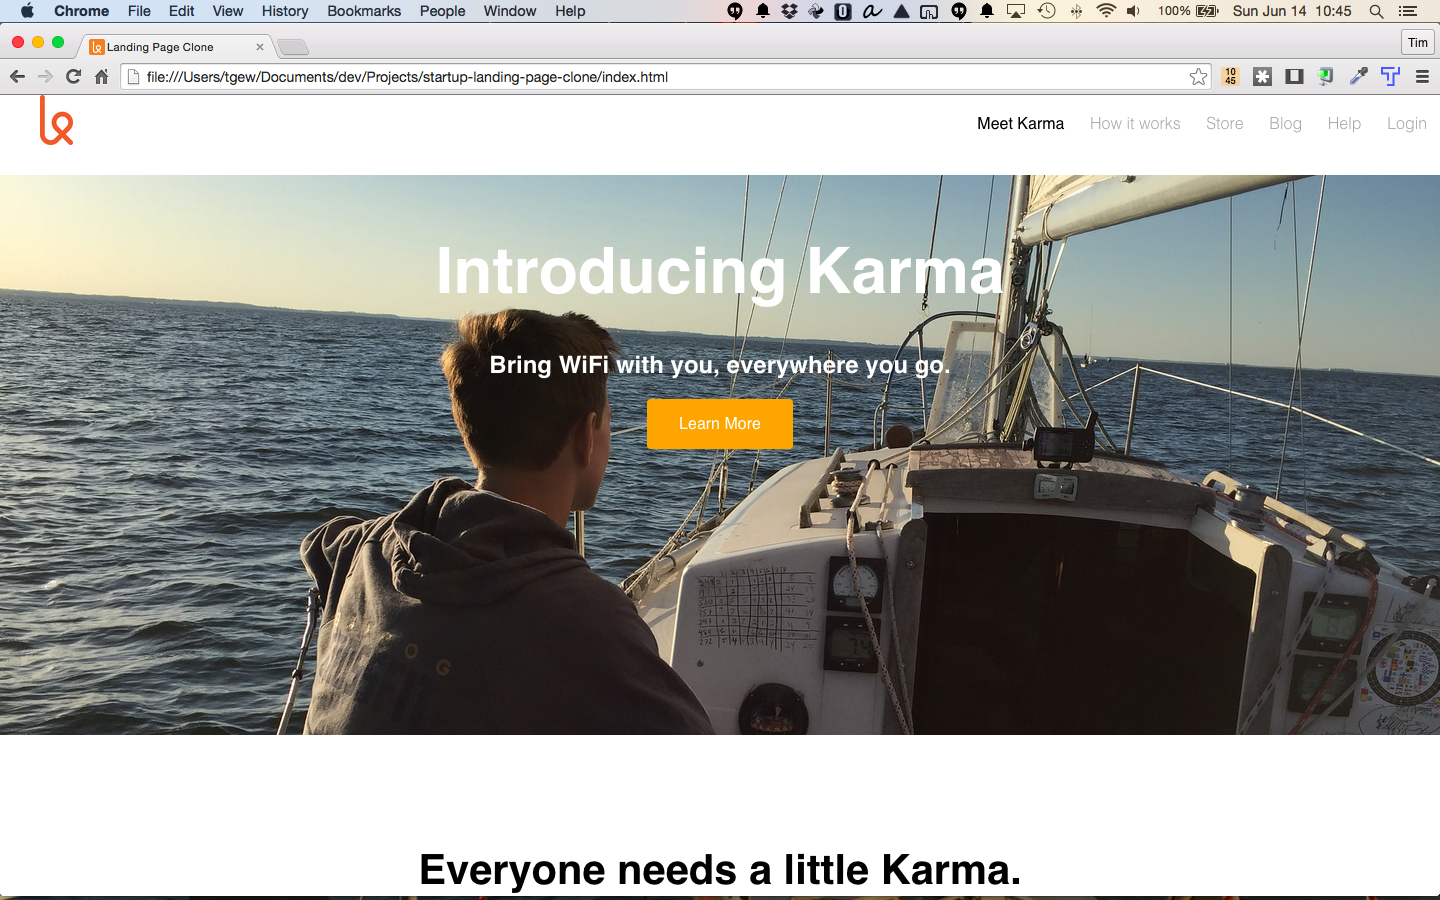
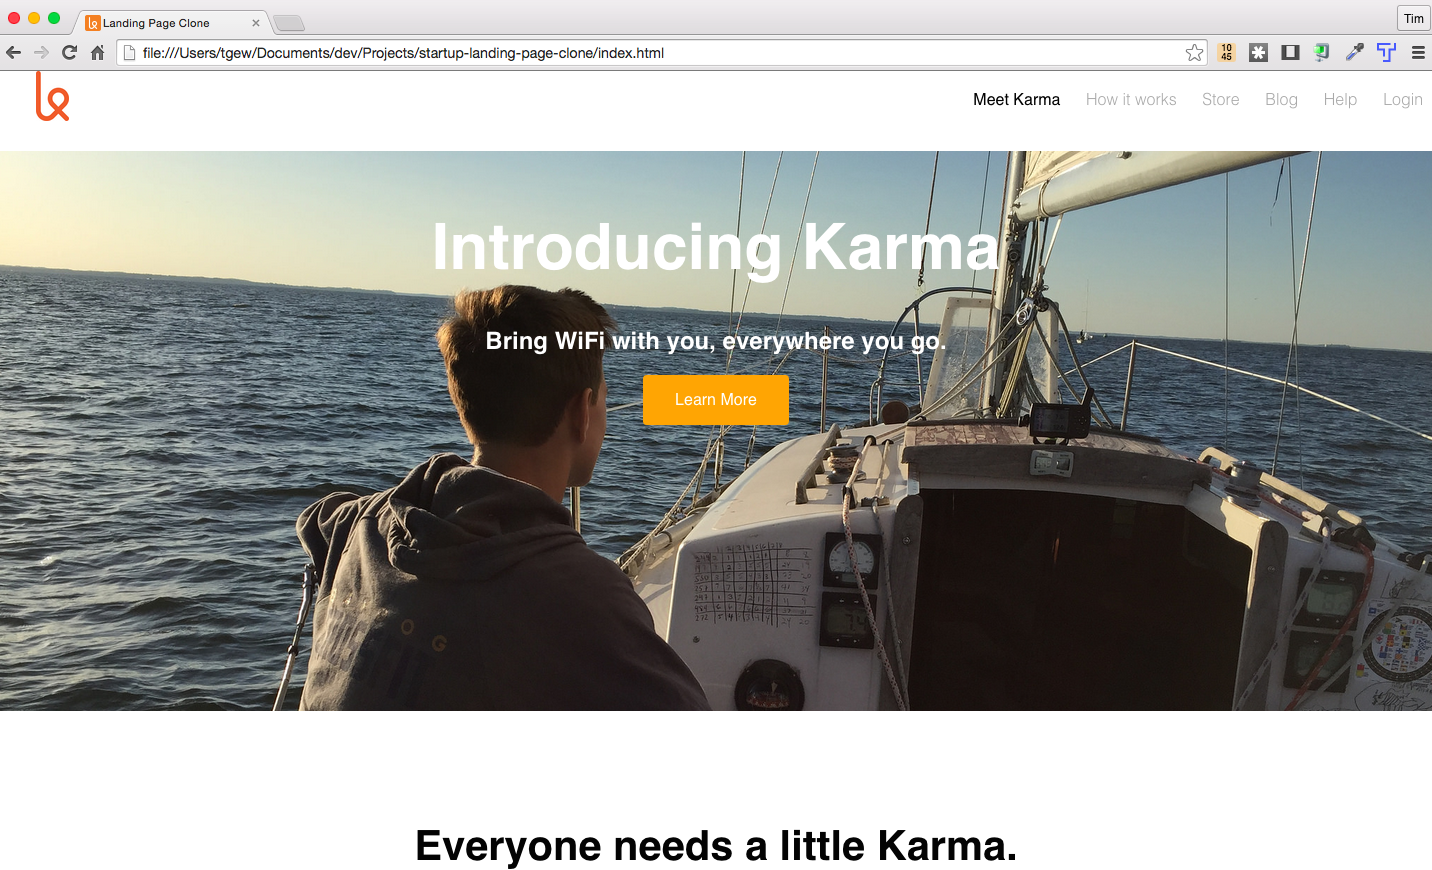
styled header and headshot

Changed region(s): [[0.0, 0.0, 1.0, 0.8379], [0.0, 0.931, 1.0, 1.0], [0.8603, 0.7448, 0.8911, 0.8069]]

diff --git a/css/style.css b/css/style.css
@@ -11,7 +11,9 @@ body {
 
 header {
 /*    max-width: 50em;*/
-/*    background-color: black*/
+/*    background-color: #699BBA;  1e5799*/
+    padding: 1em;
+    background: linear-gradient(215deg, #7db9e8 0%,#1e5799 100%);
 }
 
 .banner_text > h1 {
@@ -34,7 +36,8 @@ header {
 header > img {
 /*    float:right;*/
     border-radius: .6em 0 .9em 0;
-    border: solid .2em;
+/*    border: 1px solid #b5b5b5;*/
+    box-shadow: 0.3em 0.3em 0 #493125;
 }
 
 @media only screen and (max-width: 550px) {
@@ -63,8 +66,8 @@ footer > p {
 }
 
 .projects >img {
-    border: 2px solid  #000000;
-    border-radius: 1em;
+    border: 1px solid  #b5b5b5;
+    border-radius: 0.35em;
     margin-top: 2em;
     margin-bottom: 2em;
     margin-left: 3%;

diff --git a/index.html b/index.html
@@ -14,7 +14,7 @@
             <h1>The Goosemonkey</h1>
             <p>Tim Williams - Web Designer</p>
         </div>
-        <img src="http://www.goosemonkey.com/images/IMG_6788.JPG" alt="headshot" height="100em">
+        <img src="tgew-headshot.jpg" alt="headshot" height="90em">
     </header>   
     
     <section class="intro">
